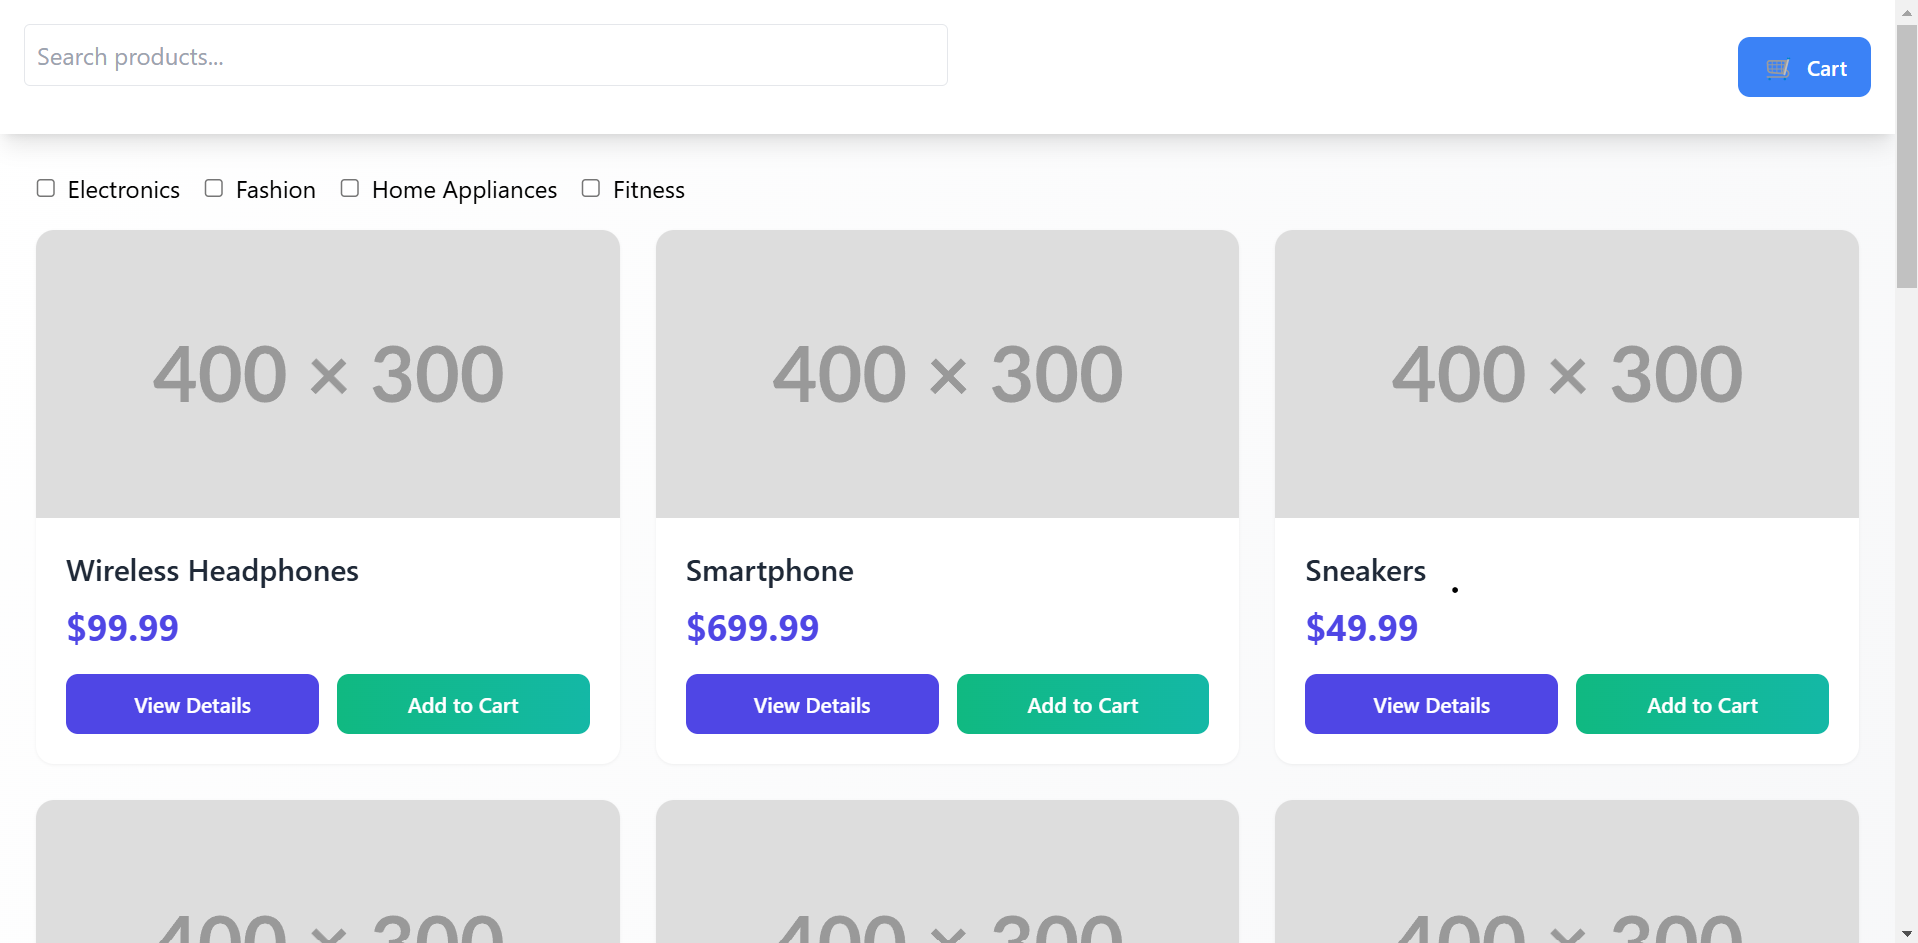
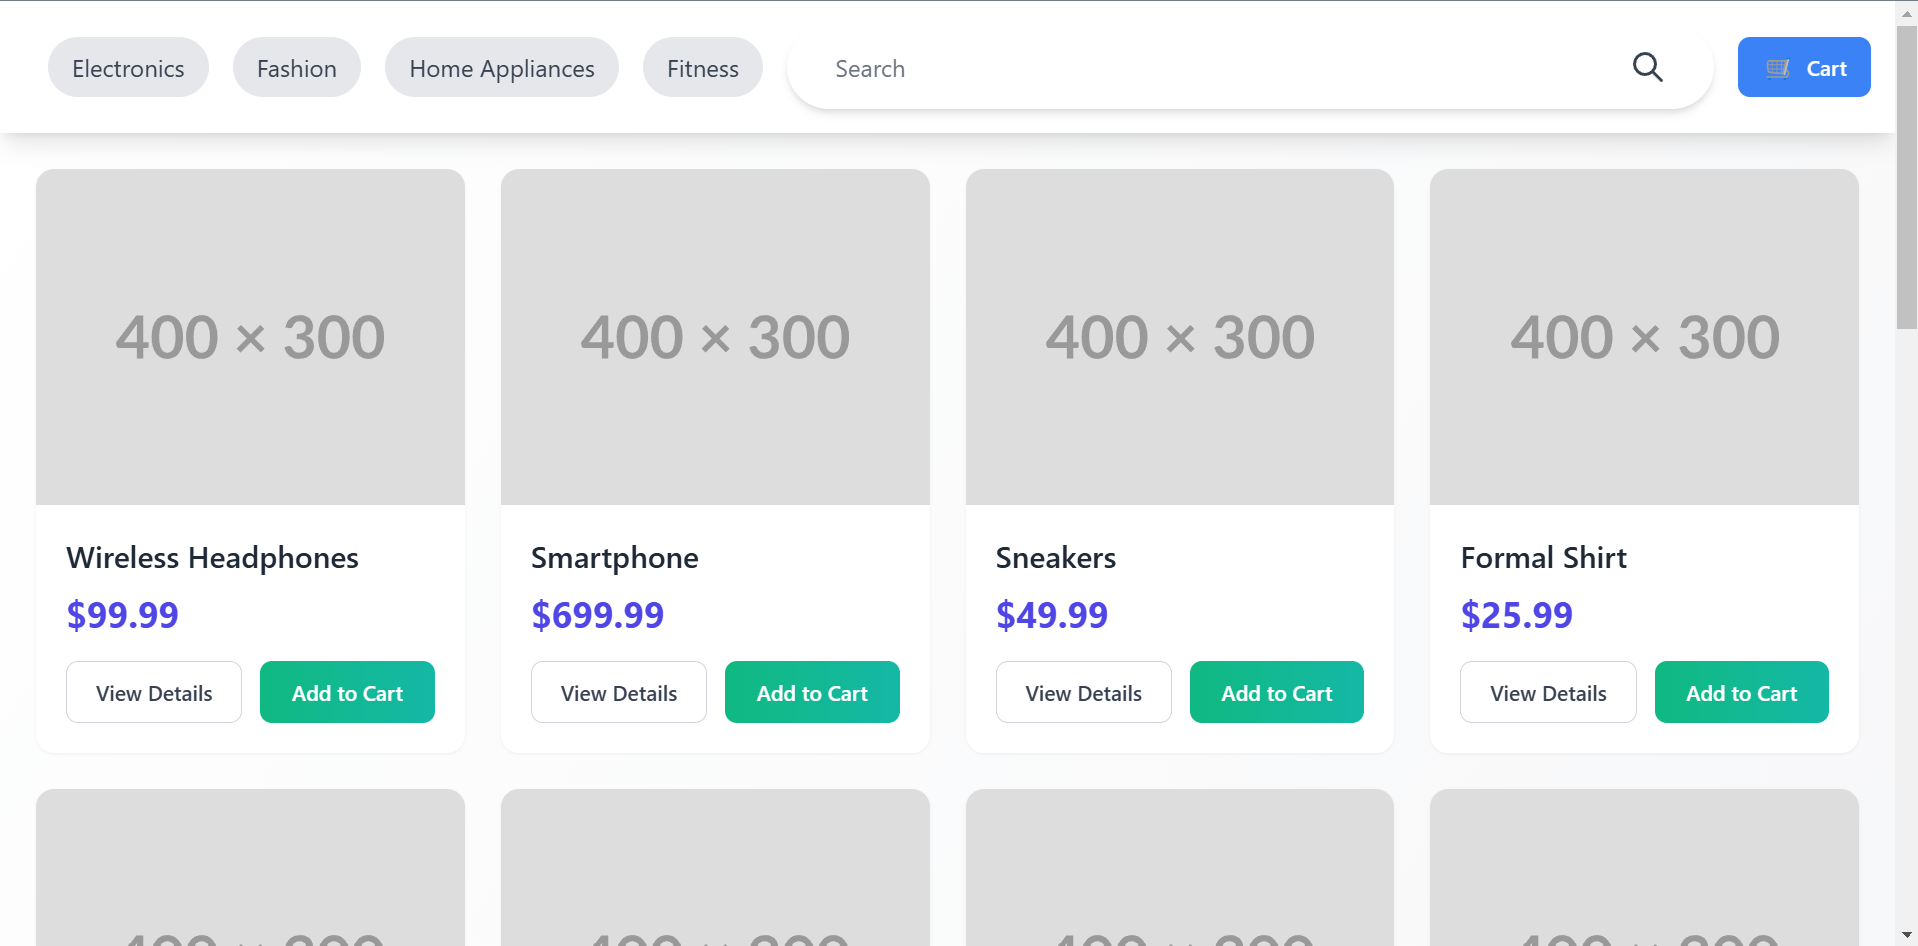
add modifications

diff --git a/src/components/ProductList.jsx b/src/components/ProductList.jsx
@@ -1,13 +1,136 @@
-import React from 'react';
-import ProductItem from './ProductItem';
+import React, { useState } from "react";
+import { useCart } from "../contexts/CartContext";
+
+const ProductDetailsModal = ({ product, onClose, addToCart }) => {
+  if (!product) return null;
+
+  const handleAddToCart = () => {
+    addToCart(product);
+    onClose();
+  };
+
+  return (
+    <div className="fixed inset-0 z-50 flex items-center justify-center bg-black bg-opacity-50 p-4">
+      <div className="bg-white rounded-xl max-w-2xl w-full max-h-[90vh] overflow-y-auto relative p-8 shadow-lg">
+        <button
+          onClick={onClose}
+          className="absolute top-4 right-4 text-gray-600 hover:text-gray-900 z-10 p-2 rounded-full transition-all duration-200"
+        >
+          <svg
+            xmlns="http://www.w3.org/2000/svg"
+            className="h-8 w-8"
+            fill="none"
+            viewBox="0 0 24 24"
+            stroke="currentColor"
+          >
+            <path
+              strokeLinecap="round"
+              strokeLinejoin="round"
+              strokeWidth={2}
+              d="M6 18L18 6M6 6l12 12"
+            />
+          </svg>
+        </button>
+
+        <div className="space-y-6">
+          <img
+            src={product.image}
+            alt={product.name}
+            className="w-full h-64 object-cover rounded-lg shadow-md mb-6"
+          />
+
+          <div className="space-y-4">
+            <h1 className="text-3xl font-bold text-gray-900">{product.name}</h1>
+            <p className="text-xl font-semibold text-gray-700">
+              ${product.price.toFixed(2)}
+            </p>
+            <p className="text-gray-600 leading-relaxed">
+              {product.description}
+            </p>
+
+            <button
+              onClick={handleAddToCart}
+              className="w-full mt-4 px-4 py-2.5 bg-gradient-to-r from-emerald-500 to-teal-500 text-white text-sm font-medium rounded-lg hover:from-emerald-600 hover:to-teal-600 focus:ring-2 focus:ring-emerald-500 focus:ring-offset-2 transition-all duration-300"
+            >
+              Add to Cart
+            </button>
+          </div>
+        </div>
+      </div>
+    </div>
+  );
+};
 
 const ProductList = ({ products }) => {
+  const { addToCart } = useCart();
+  const [selectedProduct, setSelectedProduct] = useState(null);
+
+  const handleViewDetails = (product) => {
+    setSelectedProduct(product);
+  };
+
+  const closeModal = () => {
+    setSelectedProduct(null);
+  };
+
   return (
-    <div className="grid grid-cols-1 sm:grid-cols-2 lg:grid-cols-3 gap-6">
-      {products.map(product => (
-        <ProductItem key={product.id} product={product} />
-      ))}
-    </div>
+    <>
+      <div className="grid grid-cols-1 md:grid-cols-2 lg:grid-cols-3 xl:grid-cols-4 gap-6">
+        {products.map((product) => (
+          <div
+            key={product.id}
+            className="bg-white rounded-xl overflow-hidden shadow-sm hover:shadow-xl transform hover:-translate-y-1 transition-all duration-300"
+          >
+            <div className="relative group">
+              <img
+                src={product.image || "placeholder.jpg"}
+                alt={product.name || "Product image"}
+                className="w-full h-56 object-cover object-center transition-transform duration-300 group-hover:scale-105"
+              />
+            </div>
+
+            <div className="p-5">
+              <h2 className="text-xl font-semibold text-gray-800 mb-2 line-clamp-1 hover:line-clamp-none transition-all duration-300">
+                {product.name || "Unnamed Product"}
+              </h2>
+              <div className="flex items-center justify-between mb-4">
+                <span className="text-2xl font-bold text-indigo-600">
+                  ${product.price?.toFixed(2) || "0.00"}
+                </span>
+                {product.oldPrice && (
+                  <span className="text-sm text-gray-400 line-through">
+                    ${product.oldPrice.toFixed(2)}
+                  </span>
+                )}
+              </div>
+
+              <div className="flex gap-3">
+                <button
+                  onClick={() => handleViewDetails(product)}
+                  className="flex-1 px-4 py-2.5 bg-white border border-gray-300 text-gray-700 text-sm font-medium rounded-lg hover:bg-gray-100 transition-all duration-300 text-center"
+                >
+                  View Details
+                </button>
+                <button
+                  onClick={() => addToCart(product)}
+                  className="flex-1 px-4 py-2.5 bg-gradient-to-r from-emerald-500 to-teal-500 text-white text-sm font-medium rounded-lg hover:from-emerald-600 hover:to-teal-600 focus:ring-2 focus:ring-emerald-500 focus:ring-offset-2 transition-all duration-300"
+                >
+                  Add to Cart
+                </button>
+              </div>
+            </div>
+          </div>
+        ))}
+      </div>
+
+      {selectedProduct && (
+        <ProductDetailsModal
+          product={selectedProduct}
+          onClose={closeModal}
+          addToCart={addToCart}
+        />
+      )}
+    </>
   );
 };
 

diff --git a/src/pages/Home.jsx b/src/pages/Home.jsx
@@ -85,7 +85,9 @@ const Home = () => {
       <div className="min-h-screen flex items-center justify-center bg-gradient-to-br from-white to-gray-100">
         <div className="bg-white p-8 rounded-xl shadow-lg max-w-md w-full mx-4">
           <div className="text-red-500 text-6xl mb-4 text-center">⚠</div>
-          <h2 className="text-2xl font-bold text-gray-800 mb-4 text-center">Oops!</h2>
+          <h2 className="text-2xl font-bold text-gray-800 mb-4 text-center">
+            Oops!
+          </h2>
           <p className="text-gray-600 text-center mb-6">{error}</p>
           <button
             onClick={() => window.location.reload()}
@@ -104,13 +106,21 @@ const Home = () => {
       <header className="sticky top-0 z-50 bg-white/95 backdrop-blur-sm shadow-lg">
         <div className="max-w-7xl mx-auto p-4">
           <div className="flex justify-between items-center gap-4">
-            <div className="w-full md:w-1/2">
-              <SearchBar
-                value={search}
-                onChange={(e) => setSearch(e.target.value)}
-                className="w-full px-4 py-2.5 rounded-xl border border-gray-200 focus:outline-none focus:ring-2 focus:ring-blue-500 focus:border-transparent transition-all duration-300 bg-gray-50 hover:bg-white shadow-sm hover:shadow-md"
-                placeholder="Search products..."
+            <div className="ml-4 items-center space-x-2">
+              <CategoryFilter
+                categories={categories}
+                selectedCategories={selectedCategories}
+                onChange={handleCategoryChange}
               />
+            </div>
+            <div className="flex-1 flex items-center bg-white px-4 py-2 rounded-full shadow-md">
+              <div className="flex-1">
+                <SearchBar
+                  value={search}
+                  onChange={(e) => setSearch(e.target.value)}
+                  placeholder="Search products..."
+                />
+              </div>
             </div>
 
             <div className="relative flex-shrink-0">
@@ -119,7 +129,9 @@ const Home = () => {
                 className="group flex items-center gap-2 bg-blue-500 text-white px-4 py-2 rounded-lg hover:bg-blue-600 transition-all duration-300 transform hover:scale-105 hover:shadow-md"
               >
                 <span className="text-base">🛒</span>
-                <span className="hidden md:inline text-sm font-medium">Cart</span>
+                <span className="hidden md:inline text-sm font-medium">
+                  Cart
+                </span>
               </Link>
               {getTotalItems() > 0 && (
                 <span className="absolute -top-2 -right-2 bg-red-500 text-white text-xs font-bold rounded-full w-5 h-5 flex items-center justify-center animate-bounce">
@@ -134,17 +146,12 @@ const Home = () => {
       {/* Main Content */}
       <main className="flex-grow p-4 md:p-6">
         <div className="max-w-7xl mx-auto">
-          <CategoryFilter
-            categories={categories}
-            selectedCategories={selectedCategories}
-            onChange={handleCategoryChange}
-            className="mb-6 flex flex-wrap gap-2"
-          />
-
           {filteredProducts.length === 0 ? (
             <div className="text-center py-16 bg-white rounded-xl shadow-sm">
               <p className="text-2xl text-gray-600 mb-2">No products found</p>
-              <p className="text-gray-400">Try adjusting your search or filters</p>
+              <p className="text-gray-400">
+                Try adjusting your search or filters
+              </p>
             </div>
           ) : (
             <ProductList products={filteredProducts} />
@@ -165,9 +172,7 @@ const Home = () => {
       {/* Footer */}
       <footer className="bg-gradient-to-r from-gray-800 to-gray-900 text-white mt-auto">
         <div className="max-w-7xl mx-auto py-8 px-4 text-center">
-          <p className="text-2xl font-bold mb-2">
-            React Product Catalog
-          </p>
+          <p className="text-2xl font-bold mb-2">React Product Catalog</p>
         </div>
       </footer>
     </div>

diff --git a/src/components/SearchBar.jsx b/src/components/SearchBar.jsx
@@ -2,13 +2,31 @@ import React from 'react';
 
 const SearchBar = ({ value, onChange }) => {
   return (
-    <input
-      type="text"
-      value={value}
-      onChange={onChange}
-      placeholder="Search products..."
-      className="w-full p-2 border rounded mb-4"
-    />
+    <div className="flex items-center bg-white px-4 py-2 rounded-full">
+      <input
+        type="text"
+        value={value}
+        onChange={onChange}
+        placeholder="Search"
+        className="bg-white text-gray-900 placeholder-gray-500 focus:outline-none flex-1"
+      />
+      <button className="text-gray-700 hover:text-gray-900 focus:outline-none">
+        <svg
+          xmlns="http://www.w3.org/2000/svg"
+          className="h-6 w-6"
+          fill="none"
+          viewBox="0 0 24 24"
+          stroke="currentColor"
+        >
+          <path
+            strokeLinecap="round"
+            strokeLinejoin="round"
+            strokeWidth={2}
+            d="M21 21l-6-6m2-5a7 7 0 11-14 0 7 7 0 0114 0z"
+          />
+        </svg>
+      </button>
+    </div>
   );
 };
 

diff --git a/src/components/CategoryFilter.jsx b/src/components/CategoryFilter.jsx
@@ -2,17 +2,19 @@ import React from 'react';
 
 const CategoryFilter = ({ categories, selectedCategories, onChange }) => {
   return (
-    <div className="mb-4">
+    <div className="flex items-center space-x-4">
       {categories.map(category => (
-        <label key={category} className="mr-4">
-          <input
-            type="checkbox"
-            checked={selectedCategories.includes(category)}
-            onChange={() => onChange(category)}
-            className="mr-2"
-          />
+        <button
+          key={category}
+          onClick={() => onChange(category)}
+          className={`px-4 py-2 rounded-full transition-colors duration-300 ${
+            selectedCategories.includes(category)
+              ? 'bg-blue-500 text-white hover:bg-blue-600'
+              : 'bg-gray-200 text-gray-700 hover:bg-gray-300'
+          }`}
+        >
           {category}
-        </label>
+        </button>
       ))}
     </div>
   );

diff --git a/src/App.jsx b/src/App.jsx
@@ -1,7 +1,6 @@
 import React from "react";
 import { BrowserRouter as Router, Route, Routes } from "react-router-dom";
 import Home from "./pages/Home";
-import ProductDetailPage from "./pages/ProductDetailPage";
 import { CartProvider } from "./contexts/CartContext";
 import CartPage from "./pages/CartPage";
 
@@ -11,7 +10,6 @@ const App = () => {
       <Router>
         <Routes>
           <Route path="/" element={<Home />} />
-          <Route path="/product/:id" element={<ProductDetailPage />} />
           <Route path="/cart" element={<CartPage />} />
         </Routes>
       </Router>
